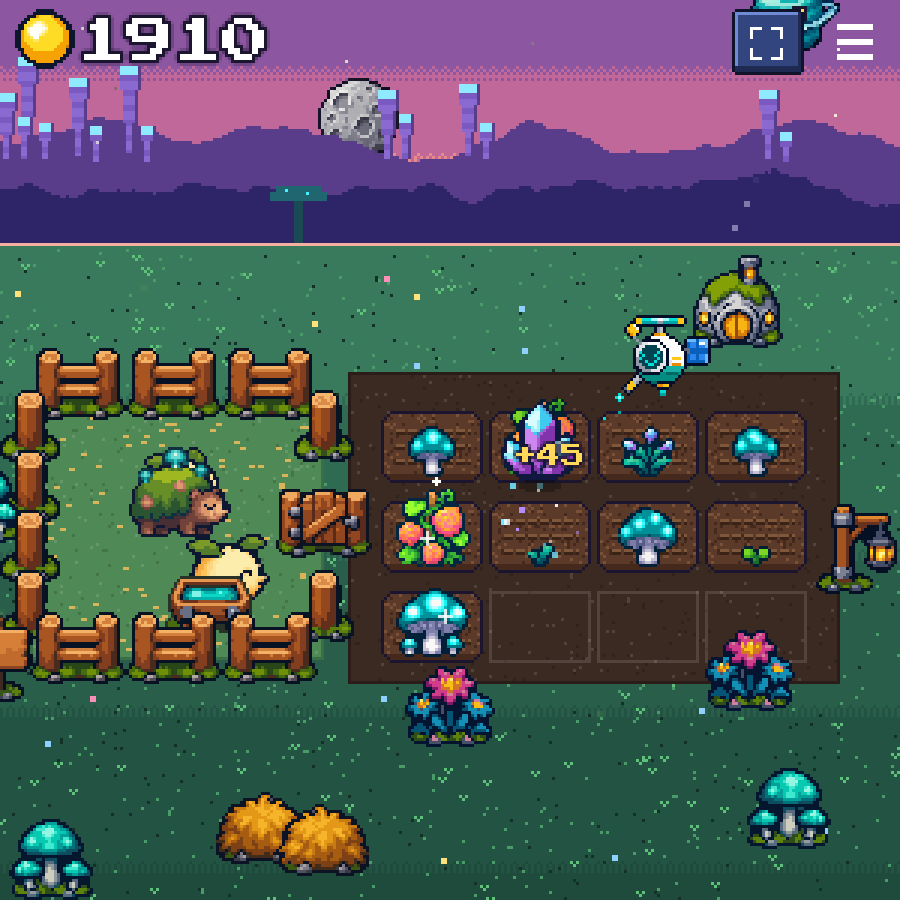
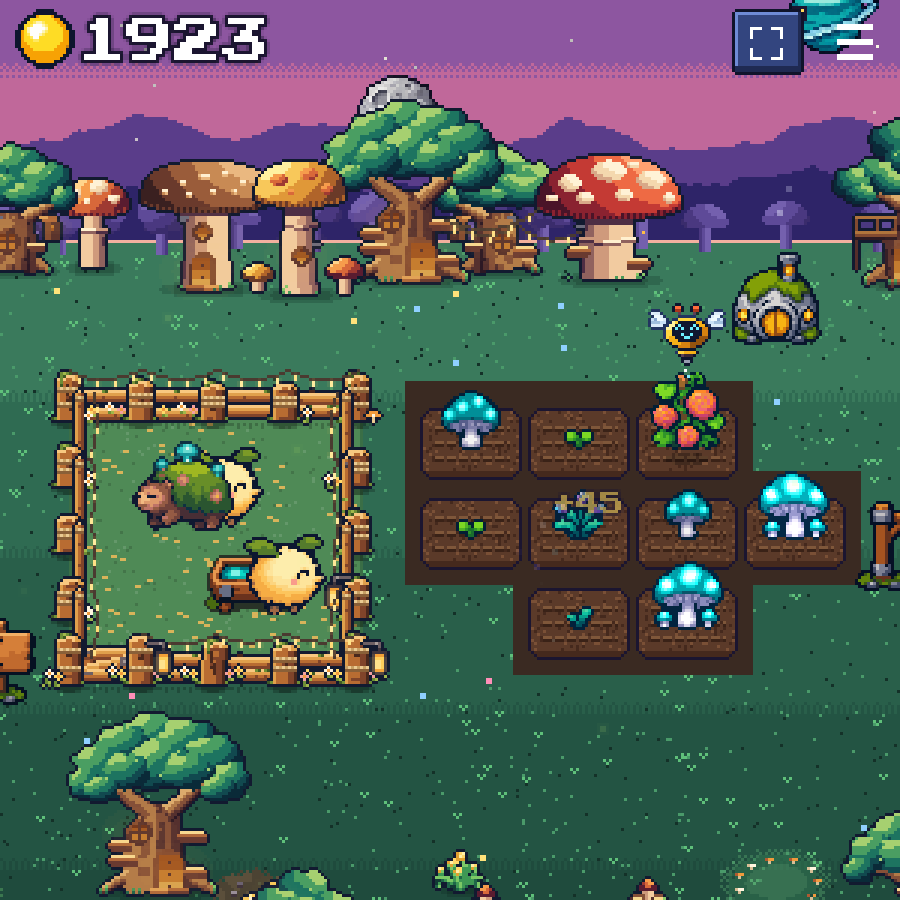
v0.0.5: a cosier farm, without Cinderrift for now

diff --git a/CHANGELOG.md b/CHANGELOG.md
@@ -6,9 +6,32 @@ All notable changes to *Driftlight*, newest first.
 
 | Version | Date | Status | Summary |
 |---|---|---|---|
+| v0.0.5 | 2026-11-28 | Pre-alpha | A cosier farm: a fairy-light fence, a new bee-bot helper drone, a forest of tree houses and giant mushrooms that glows at night, and plots you place where you want. Cinderrift is out for now |
 | v0.0.4 | 2026-11-26 | Pre-alpha | A second planet, the lava world Cinderrift, with its own crops and animals, and a Planets button to travel between planets |
 | v0.0.3 | 2026-11-26 | Pre-alpha | A new look: one pixel size for every picture, sharp pixels on screen, and a rebuilt helper drone with five moods |
 | v0.0.1 | 2026-11-25 | Pre-alpha | The first version: a farm on a faraway planet, with a helper drone, a corner view and a full-screen view, for Windows and Mac |
+
+---
+
+## v0.0.5 · 2026-11-28 · Pre-alpha
+
+A cosier farm. (v0.0.2 was a local test version and was never released.)
+
+### Highlights
+
+- **A fairy-light fence:** the pen is now fenced with warm logs, with flowers and moss at the posts, lanterns, and strings of fairy lights that sway in the wind and flicker. They stay bright when the world goes dark.
+- **A new helper drone:** a small bee-bot with a round display face and wings that flap smoothly. It still has five moods: happy, working, blink, wow and love.
+- **A cosy forest all round:** a line of tree houses and giant mushrooms behind the field, groves and clearings in the meadow, small stumps, logs, woodpiles, ferns and flowers, and distant mushroom silhouettes on the horizon. At night the windows light up, the glow comes on and fairy lights hang between the trees. A new plot clears whatever it would stand on, so the forest steps back as the farm grows.
+- **Plots where you want them:** **New plot** in the shop asks where it goes, and you can place up to 24 plots anywhere on the land. Scroll, use the arrow keys or drag with the right mouse button to move the view; in the corner, small arrows at the window's edges do it too.
+- **Plants sit properly:** plants now stand lower in their plots and sway and hop on whole pixels, so they stay sharp. The helper drone no longer jumps to one side when it turns around.
+- **Cinderrift is out for now:** the lava planet and the Planets button are gone while the game gets its look in order. Mossrill is the only planet.
+
+### Good to know
+
+- Saves from earlier versions carry over: plots keep their places (old saves put them in rows of four), and the light is kept. If you had settled Cinderrift in v0.0.4, this version keeps Mossrill and your light, but it does not keep the Cinderrift farm.
+- This is still an early test version, and the numbers (how fast crops grow, what things cost) are first guesses.
+- The Windows build has not been tried on a real Windows computer yet.
+- The builds aren't signed yet, so Windows and macOS warn the first time you open the game. The [README](https://github.com/fdrk-git/Driftlight#download-and-play) says how to get past that.
 
 ---
 

diff --git a/README.md b/README.md
@@ -54,15 +54,15 @@ The farm plays itself. Everything below is optional.
 | Click a ripe crop | You harvest it at once, for the full value. It replants itself |
 | Click the bubble above an animal | You collect its goods at once, for the full value |
 | Click the open button, top right | The farm opens up to the whole screen, with a shop on the right. Press **Esc** to go back to the corner |
-| In the full view, click the planet's name, top right | The **Planets** panel: settle a new planet once for its price in light, or travel to one you have. Each planet has its own field, pen and drone, and all of them keep running |
-| In the full view | Pick a seed to plant, unlock new seeds, buy plots for the field, animals for the pen, and a better drone. The gold **+** in the field is the next plot |
+| In the full view | Pick a seed to plant, unlock new seeds, buy animals for the pen and a better drone. **New plot** lets you click where the plot goes |
+| Scroll, use the arrow keys, or drag with the right mouse button | Moves the view over the land. In the full view, dragging empty ground does it too. In the corner, small arrows at the window's edges do the same |
 | Drag an empty spot in the corner | Moves the window |
 | Close the game | The farm keeps growing for up to 8 hours. When you open the game again, a "Welcome back" panel says how much light it brought |
 
 The game saves on its own. Settings change the size of the corner window and the volume, and let you turn off the growing
 animation if the full view should just fade in.
 
-## The first planet: Mossrill
+## The planet: Mossrill
 
 | Crop | Grows in | Worth |
 |---|---|---|
@@ -74,23 +74,6 @@ animation if the full view should just fade in.
 |---|---|---|
 | Puffball, a floating fluffy creature | 50 seconds | 10 light |
 | Mossback, a mossy shelled walker | 120 seconds | 30 light |
-
-## The second planet: Cinderrift
-
-A lava world, settled once for 1500 light from the Planets panel in the full view.
-
-<img src="docs/screenshots/cinderrift-view.png" alt="Cinderrift: a dark red sky with volcanoes, black ash ground, and the farm with lava crops and animals" width="450">
-
-| Crop | Grows in | Worth |
-|---|---|---|
-| Emberbulb, a glowing orange bulb | 60 seconds | 30 light |
-| Cinderthistle, a charcoal thistle with a flame bloom | 130 seconds | 85 light |
-| Obsidian Lotus, a glossy black lotus with a magma core | 270 seconds | 220 light |
-
-| Animal | Makes goods every | Worth |
-|---|---|---|
-| Embermoth, a floating moth made of embers | 70 seconds | 40 light |
-| Slagback, a rocky walker with a lava-cracked shell | 140 seconds | 100 light |
 
 ## Versions
 
